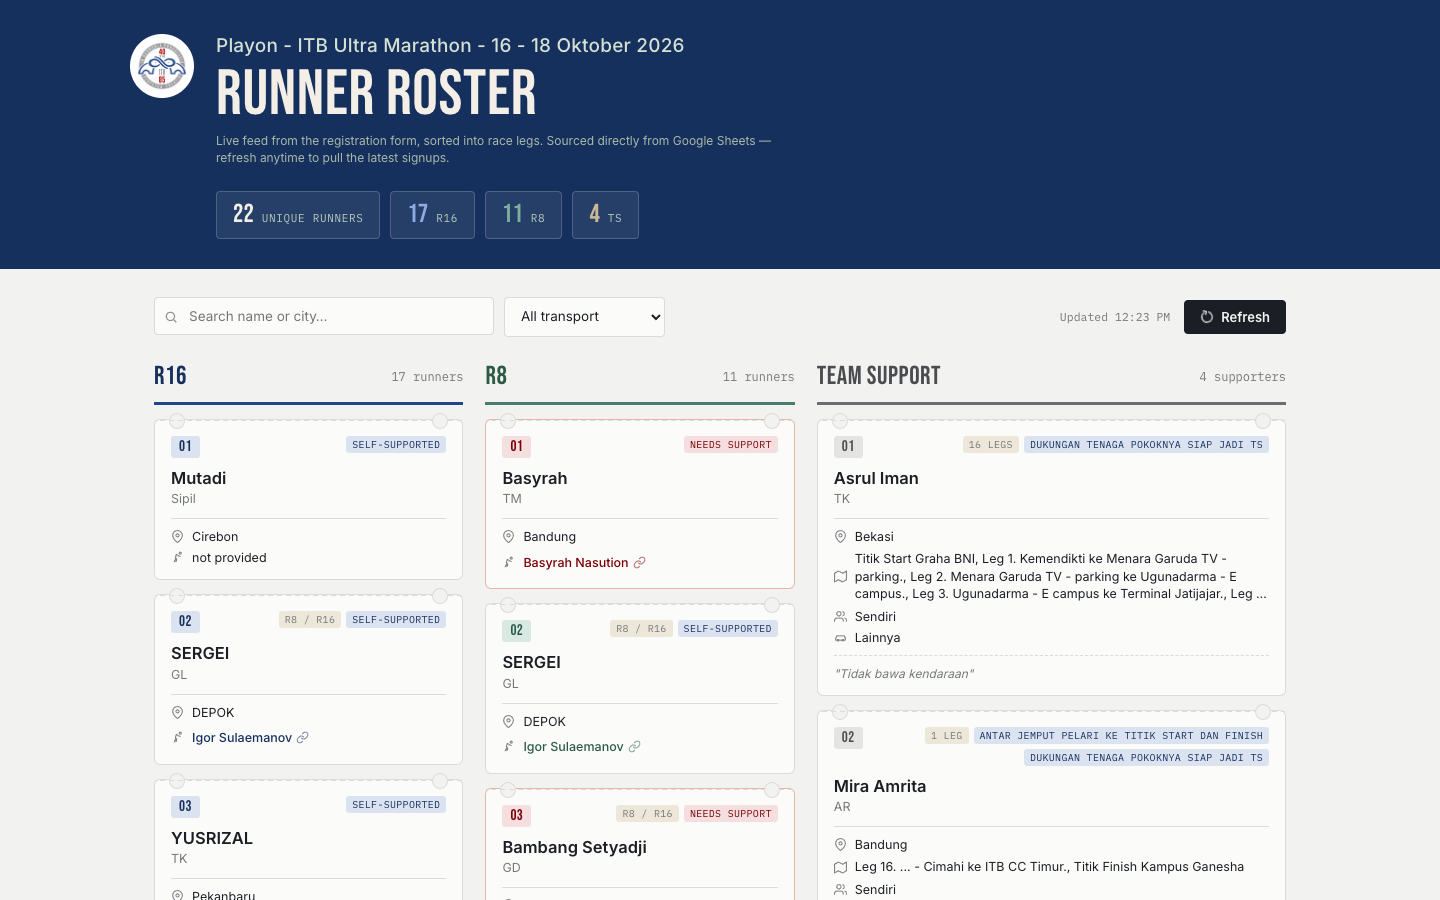
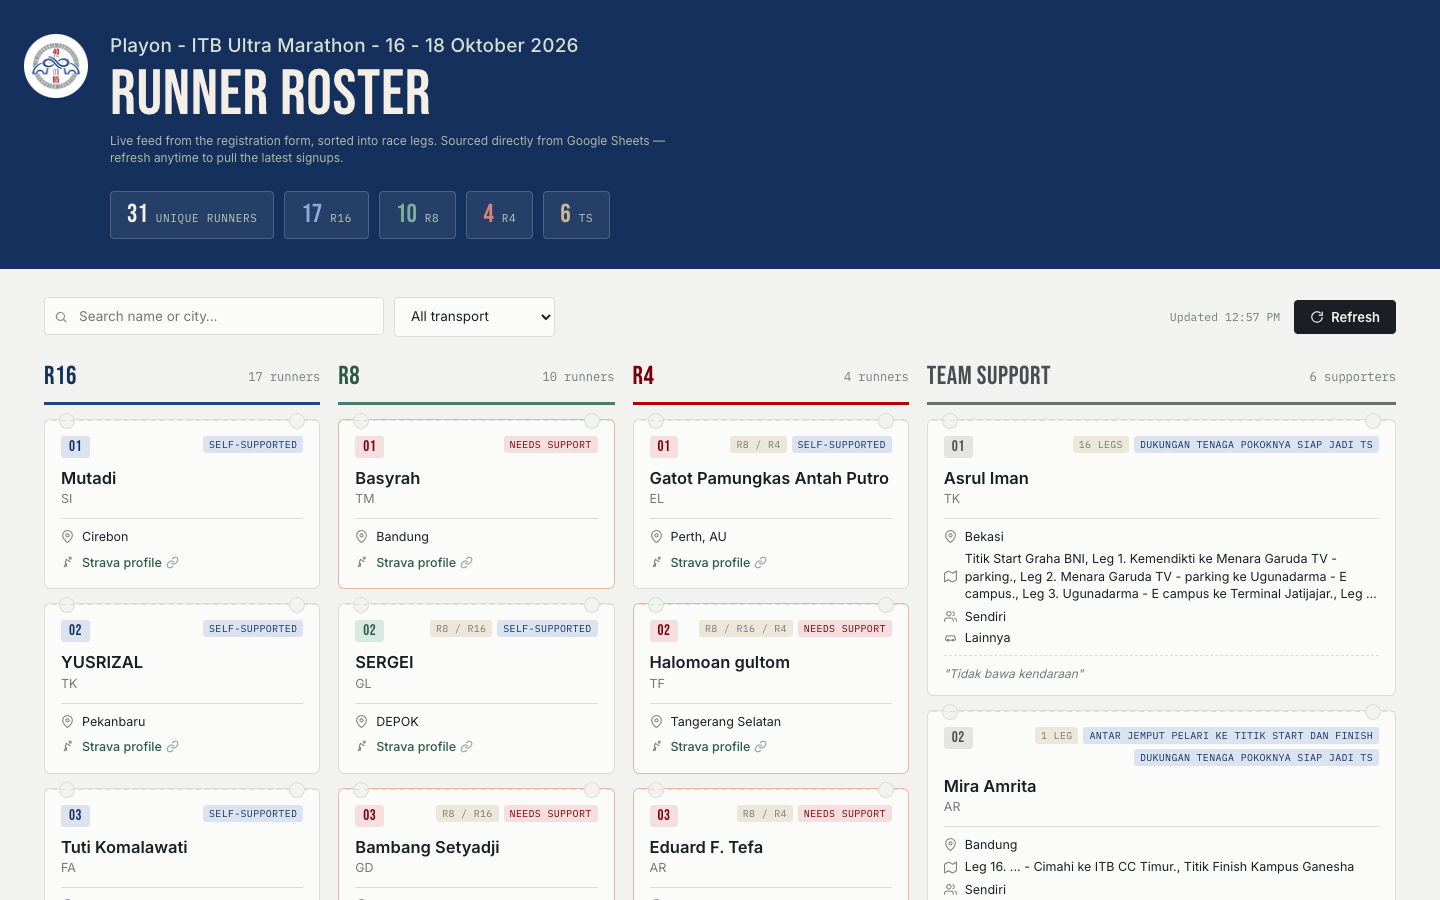
Update README and screenshots for R16, R8, R4, and TS layout.
Refresh desktop and mobile captures from the live dashboard; document four-column layout and category priority bucketing.

diff --git a/README.md b/README.md
@@ -1,6 +1,6 @@
 # Playon ITB 85 — Runner Roster Dashboard
 
-Live dashboard for **Playon ITB 85** at the **ITB Ultra Marathon 2026** (16–18 Oktober 2026). The page pulls runner and team-support signups from Google Sheets and displays them in three columns: **R16**, **R8**, and **Team Support (TS)**.
+Live dashboard for **Playon ITB 85** at the **ITB Ultra Marathon 2026** (16–18 Oktober 2026). The page pulls runner and team-support signups from Google Sheets and displays them in four columns: **R16**, **R8**, **R4**, and **Team Support (TS)**.
 
 ## Live site
 
@@ -10,23 +10,26 @@ Hosted on GitHub Pages from the `main` branch.
 
 ### Desktop
 
-![Playon ITB 85 dashboard — R16, R8, and Team Support columns](docs/screenshot-desktop.png)
+![Playon ITB 85 dashboard — R16, R8, R4, and Team Support columns](docs/screenshot-desktop.png)
+
+Four runner/support columns at wide viewports (2×2 grid on medium screens).
 
 ### Mobile
 
-On a phone, stats appear in a 2×2 grid and one leg is shown at a time — tap **R16**, **R8**, or **TS** to switch.
+On a phone, stats appear in a grid and one leg is shown at a time — tap **R16**, **R8**, **R4**, or **TS** to switch.
 
-<img src="docs/screenshot-mobile.png" alt="Playon ITB 85 on iPhone — R16 leg selected, single-column card list" width="320">
+<img src="docs/screenshot-mobile.png" alt="Playon ITB 85 on mobile — stat pills for R16, R8, R4, and TS with single-column runner list" width="320">
 
 ## Features
 
 - **Live roster** — Fetches the latest runner signups from a Google Sheet (view-only)
+- **Race legs** — Runners grouped into **R16**, **R8**, and **R4** columns
+- **Multi-leg runners** — If someone registers for more than one leg, they appear in one column only: **R4** first, then **R8**, then **R16** (all legs still shown on the card badge)
 - **Team Support** — Separate column for TS volunteers (legs, support type, vehicle, notes)
-- **Race legs** — Runners grouped into **R16** and **R8** columns
-- **Header stats** — Unique runner count plus R16, R8, and TS totals
+- **Header stats** — Unique runner count plus R16, R8, R4, and TS totals
 - **Search & filter** — Search runners and supporters by name or city; filter runners by transport (self-supported / needs support)
 - **Auto-refresh** — Updates every 5 minutes, or click **Refresh** anytime
-- **Runner cards** — Bib number, name, major, city, Strava link, transport badges, and notes
+- **Runner cards** — Bib number, name, major, city, Strava link (green when valid), transport badges, and notes
 - **TS cards** — Supporter name, major, city, support legs, badges, vehicle, and who they support with
 
 ## Data sources
@@ -35,7 +38,7 @@ Two Google Sheets registration forms feed the dashboard. Both must be shared as 
 
 | Sheet | Used for |
 |-------|----------|
-| Runner roster | R16 and R8 runner cards |
+| Runner roster | R16, R8, and R4 runner cards |
 | Team Support | TS supporter cards |
 
 Phone numbers from either form are not shown on the dashboard.
